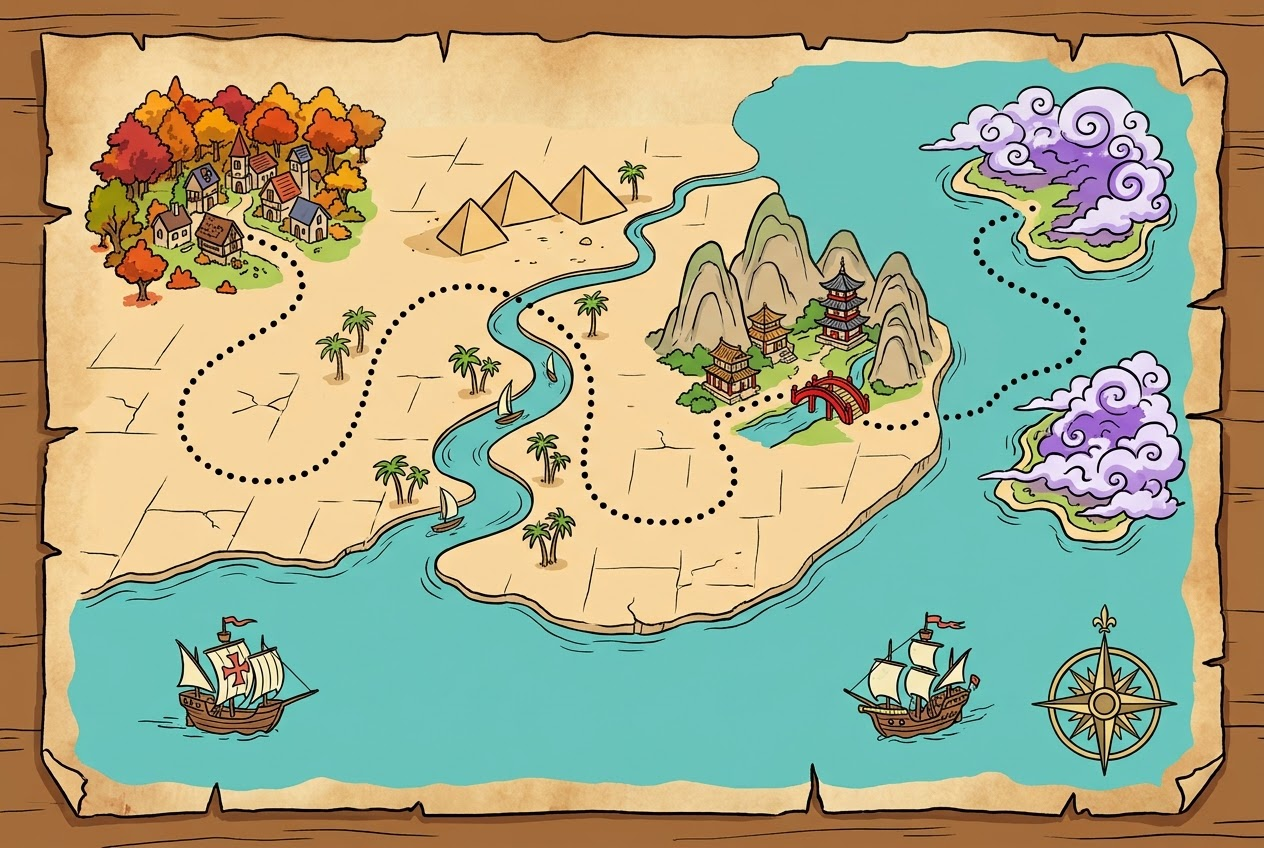
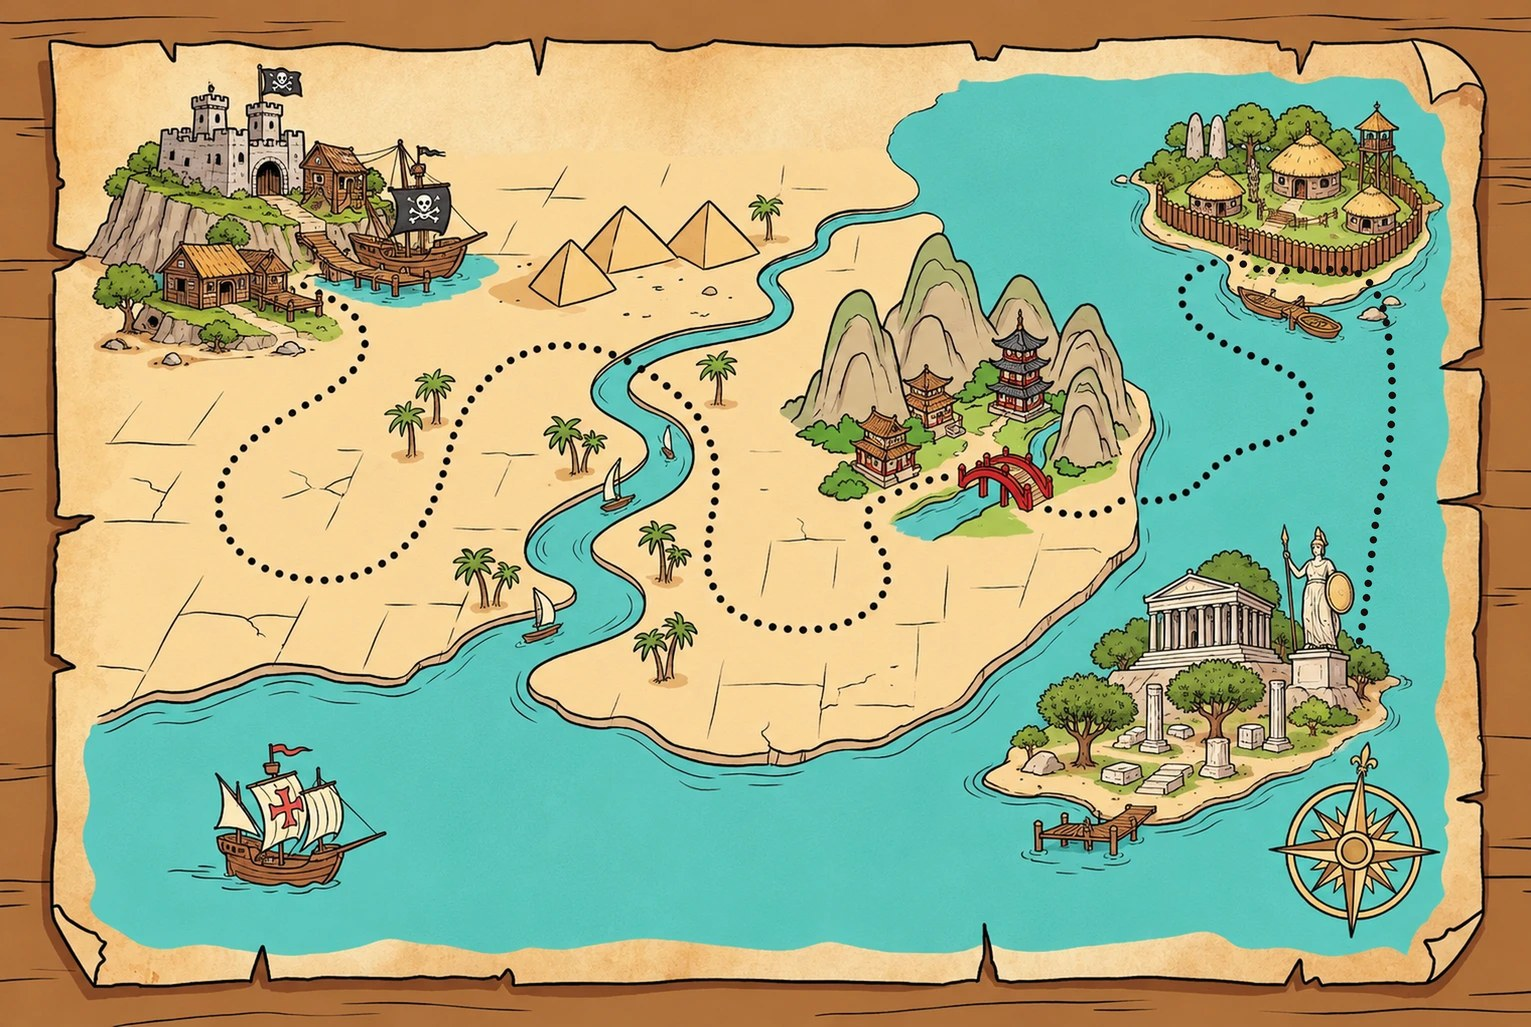
Carte des mondes redessinée : pirates, Gaule et Grèce antique
La nouvelle image montre le repaire des pirates à la place du village,
et l'île gauloise et l'île grecque à la place des îles dans les nuages.
Rien ne menait à l'île grecque : une route de mer en pointillés,
du même style, a été ajoutée à l'image. Le chemin du héros est retracé
d'après les points noirs de l'image.

diff --git a/src/parcours/places.js b/src/parcours/places.js
@@ -5,23 +5,28 @@ import templeUrl from '../assets/parcours/temple.jpg?url';
 // Les lieux illustrés. `path` suit le chemin de l'image, en pixels de cette image.
 // `stops` donne, pour chaque point d'étape, sa position dans `path`.
 // La carte des mondes : un point par monde, dans l'ordre de l'année.
-// Points : le village d'automne, les pyramides, le pont chinois, puis les deux îles dans les nuages.
-// Mondes : les Pirates (au village, en attendant une image redessinée), l'Égypte, la Chine,
-// la Gaule et la Grèce antique (les deux îles).
+// Points : le repaire des pirates, les pyramides, le pont chinois, l'île gauloise, puis l'île grecque.
+// Le chemin traverse la rivière et le pont sans pointillés. La route de mer vers l'île grecque
+// a été ajoutée à l'image de Gemini, avec les mêmes points noirs.
 export const ATLAS = {
   key: 'place-atlas',
   url: atlasUrl,
-  width: 1264,
+  width: 1531,
   path: [
-    [250, 237], [284, 255], [302, 285], [283, 316], [252, 337], [219, 356], [193, 381], [180, 414],
-    [190, 448], [218, 471], [255, 480], [292, 477], [325, 460], [348, 434], [362, 404], [371, 372],
-    [383, 341], [402, 314], [432, 294], [468, 286], [506, 294], [550, 319], [577, 345], [590, 379],
-    [589, 415], [584, 451], [588, 486], [614, 512], [650, 521], [688, 520], [721, 503], [733, 470],
-    [716, 436], [741, 409], [780, 396], [805, 394], [835, 393], [855, 405], [866, 423], [903, 426],
-    [958, 416], [989, 403], [996, 396], [1013, 381], [1047, 369], [1078, 352], [1076, 319],
-    [1045, 300], [1011, 284], [982, 262], [982, 230], [1015, 215], [1032, 208],
+    [332, 300], [355, 317], [365, 344], [354, 370], [332, 390], [306, 406], [278, 421], [254, 438],
+    [234, 460], [222, 484], [220, 514], [230, 540], [252, 562], [280, 574], [308, 580], [340, 579],
+    [368, 570], [394, 556], [414, 536], [428, 512], [440, 486], [446, 461], [454, 436], [465, 410],
+    [480, 388], [500, 368], [524, 354], [552, 346], [582, 346], [612, 354], [654, 378], [678, 396],
+    [698, 417], [710, 444], [716, 472], [714, 502], [710, 530], [708, 558], [714, 586], [730, 610],
+    [758, 623], [788, 629], [818, 630], [848, 622], [874, 606], [888, 580], [882, 552], [868, 526],
+    [882, 500], [914, 486], [944, 478], [975, 474], [1000, 470], [1025, 478], [1048, 510], [1078, 515],
+    [1108, 510], [1144, 501], [1172, 498], [1196, 485], [1216, 466], [1240, 452], [1266, 444], [1293, 432],
+    [1310, 410], [1302, 384], [1278, 368], [1251, 356], [1224, 344], [1200, 328], [1182, 304], [1188, 278],
+    [1214, 263], [1230, 258], [1257, 269], [1286, 271], [1315, 270], [1344, 270], [1370, 283], [1383, 308],
+    [1389, 337], [1391, 366], [1392, 395], [1391, 425], [1388, 454], [1384, 482], [1378, 511], [1373, 540],
+    [1370, 569], [1366, 598], [1362, 627], [1360, 641],
   ],
-  stops: [0, 19, 36, 42, 52],
+  stops: [0, 28, 52, 73, 91],
 };
 
 export const EGYPT = {

diff --git a/CREDITS.md b/CREDITS.md
@@ -15,7 +15,7 @@
 - **Torche (stèle)** : image générée avec Gemini pour ce projet, d'après les prompts de `docs/style-images.md`, puis détourée et réduite.
   Fichier utilisé : `src/assets/objets/torche-egypte.png`.
 
-- **Carte des mondes** : image générée avec Gemini pour ce projet, d'après les prompts de `docs/style-images.md`.
+- **Carte des mondes** : image générée avec Gemini pour ce projet, d'après les prompts de `docs/style-images.md`. La route de mer vers l'île grecque a été ajoutée par le projet.
   Fichier utilisé : `src/assets/parcours/monde-entier.jpg`.
 
 - **Personnages (explorateur, pirate)** : planches générées avec Gemini pour ce projet, d'après le style de `docs/style-images.md`, puis découpées, détourées et réduites par `outils/decouper-personnage.py`.
